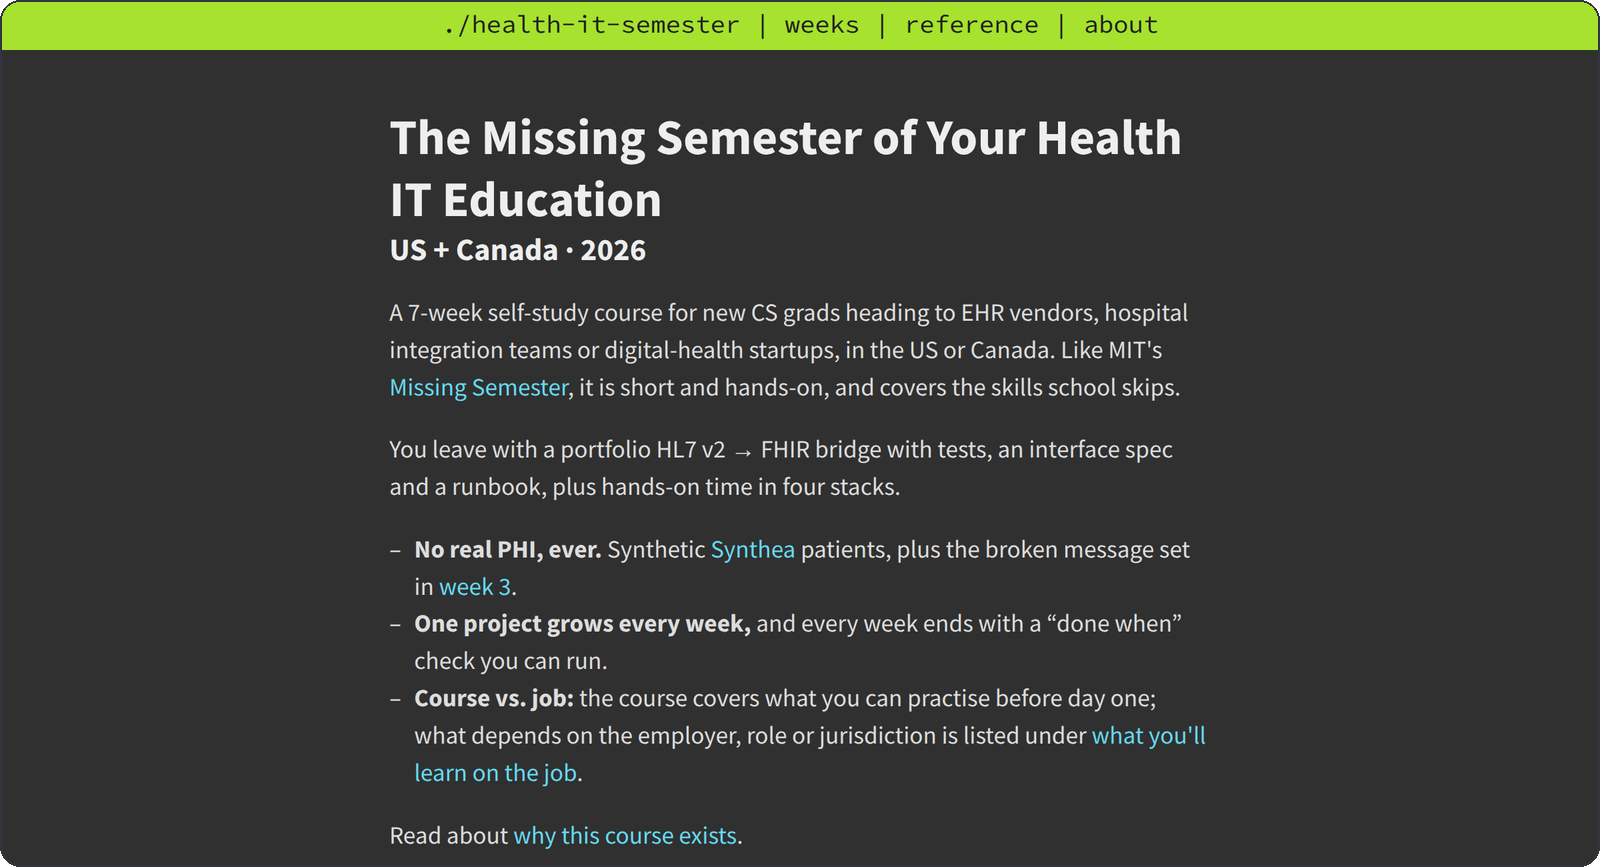
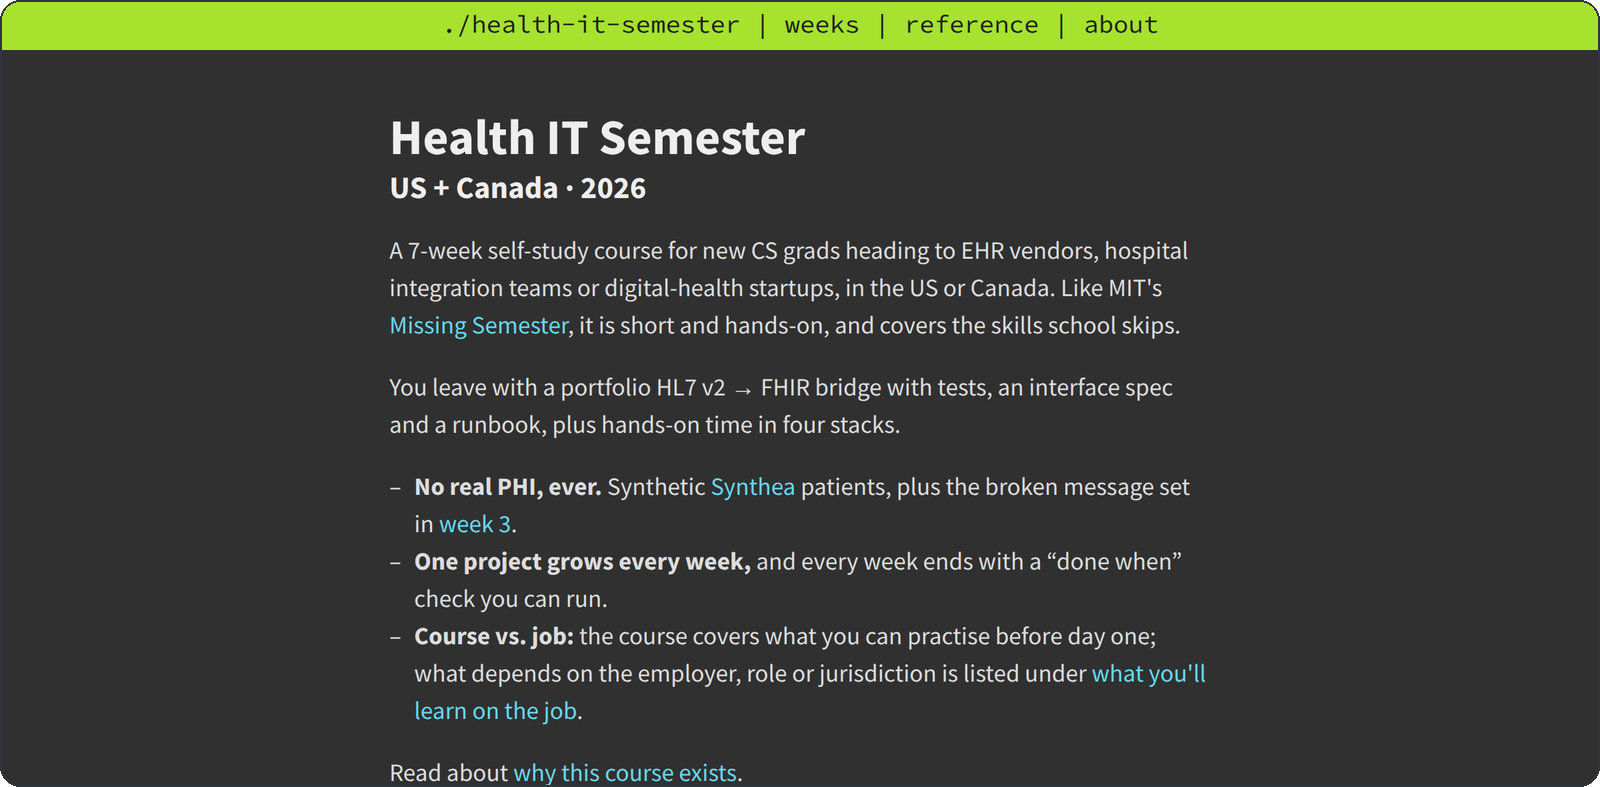
Rename course to Health IT Semester

diff --git a/index.html b/index.html
@@ -7,7 +7,7 @@
   <meta name="viewport" content="width=device-width, initial-scale=1.0">
   <meta name="description" content="A 7-week self-study course for new CS grads entering healthcare IT in the US or Canada.">
 
-  <title>The Missing Semester of Your Health IT Education</title>
+  <title>Health IT Semester</title>
 
   <link rel="stylesheet" href="static/css/main.css">
   <link rel="stylesheet" href="static/css/syntax.css">
@@ -35,7 +35,7 @@
 
 
     <div id="content">
-    <h1 class="title">The Missing Semester of Your Health IT Education</h1>
+    <h1 class="title">Health IT Semester</h1>
 <h2 class="subtitle">US + Canada · 2026</h2>
 
 <p>A 7-week self-study course for new CS grads heading to EHR vendors, hospital

diff --git a/about.html b/about.html
@@ -5,9 +5,9 @@
   <meta charset="utf-8">
 
   <meta name="viewport" content="width=device-width, initial-scale=1.0">
-  <meta name="description" content="Why the Health IT Missing Semester exists, and how employers can use it.">
+  <meta name="description" content="Why the Health IT Semester exists, and how employers can use it.">
 
-  <title>Why this course exists &middot; Health IT Missing Semester</title>
+  <title>Why this course exists &middot; Health IT Semester</title>
 
   <link rel="stylesheet" href="static/css/main.css">
   <link rel="stylesheet" href="static/css/syntax.css">

diff --git a/week-3.html b/week-3.html
@@ -5,9 +5,9 @@
   <meta charset="utf-8">
 
   <meta name="viewport" content="width=device-width, initial-scale=1.0">
-  <meta name="description" content="Week 3 of the Health IT Missing Semester: HL7 v2 + patient identity.">
+  <meta name="description" content="Week 3 of the Health IT Semester: HL7 v2 + patient identity.">
 
-  <title>HL7 v2 + patient identity &middot; Health IT Missing Semester</title>
+  <title>HL7 v2 + patient identity &middot; Health IT Semester</title>
 
   <link rel="stylesheet" href="static/css/main.css">
   <link rel="stylesheet" href="static/css/syntax.css">

diff --git a/overview.html b/overview.html
@@ -5,9 +5,9 @@
   <meta charset="utf-8">
 
   <meta name="viewport" content="width=device-width, initial-scale=1.0">
-  <meta name="description" content="Prework, outcomes and the capstone project of the Health IT Missing Semester.">
+  <meta name="description" content="Prework, outcomes and the capstone project of the Health IT Semester.">
 
-  <title>Course Overview &middot; Health IT Missing Semester</title>
+  <title>Course Overview &middot; Health IT Semester</title>
 
   <link rel="stylesheet" href="static/css/main.css">
   <link rel="stylesheet" href="static/css/syntax.css">

diff --git a/lab-setup.html b/lab-setup.html
@@ -5,9 +5,9 @@
   <meta charset="utf-8">
 
   <meta name="viewport" content="width=device-width, initial-scale=1.0">
-  <meta name="description" content="Lab setup commands and the test record for the Health IT Missing Semester.">
+  <meta name="description" content="Lab setup commands and the test record for the Health IT Semester.">
 
-  <title>Lab setup &middot; Health IT Missing Semester</title>
+  <title>Lab setup &middot; Health IT Semester</title>
 
   <link rel="stylesheet" href="static/css/main.css">
   <link rel="stylesheet" href="static/css/syntax.css">

diff --git a/interview-prep.html b/interview-prep.html
@@ -5,9 +5,9 @@
   <meta charset="utf-8">
 
   <meta name="viewport" content="width=device-width, initial-scale=1.0">
-  <meta name="description" content="Interview questions the Health IT Missing Semester prepares you for.">
+  <meta name="description" content="Interview questions the Health IT Semester prepares you for.">
 
-  <title>Interview prep &middot; Health IT Missing Semester</title>
+  <title>Interview prep &middot; Health IT Semester</title>
 
   <link rel="stylesheet" href="static/css/main.css">
   <link rel="stylesheet" href="static/css/syntax.css">

diff --git a/week-0.html b/week-0.html
@@ -5,9 +5,9 @@
   <meta charset="utf-8">
 
   <meta name="viewport" content="width=device-width, initial-scale=1.0">
-  <meta name="description" content="Week 0 of the Health IT Missing Semester: Stack short runs.">
+  <meta name="description" content="Week 0 of the Health IT Semester: Stack short runs.">
 
-  <title>Stack short runs &middot; Health IT Missing Semester</title>
+  <title>Stack short runs &middot; Health IT Semester</title>
 
   <link rel="stylesheet" href="static/css/main.css">
   <link rel="stylesheet" href="static/css/syntax.css">

diff --git a/week-6.html b/week-6.html
@@ -5,9 +5,9 @@
   <meta charset="utf-8">
 
   <meta name="viewport" content="width=device-width, initial-scale=1.0">
-  <meta name="description" content="Week 6 of the Health IT Missing Semester: Ship + get hired.">
+  <meta name="description" content="Week 6 of the Health IT Semester: Ship + get hired.">
 
-  <title>Ship + get hired &middot; Health IT Missing Semester</title>
+  <title>Ship + get hired &middot; Health IT Semester</title>
 
   <link rel="stylesheet" href="static/css/main.css">
   <link rel="stylesheet" href="static/css/syntax.css">

diff --git a/must-reads.html b/must-reads.html
@@ -5,9 +5,9 @@
   <meta charset="utf-8">
 
   <meta name="viewport" content="width=device-width, initial-scale=1.0">
-  <meta name="description" content="Book chapters to read alongside the Health IT Missing Semester.">
+  <meta name="description" content="Book chapters to read alongside the Health IT Semester.">
 
-  <title>Must reads &middot; Health IT Missing Semester</title>
+  <title>Must reads &middot; Health IT Semester</title>
 
   <link rel="stylesheet" href="static/css/main.css">
   <link rel="stylesheet" href="static/css/syntax.css">

diff --git a/week-1.html b/week-1.html
@@ -5,9 +5,9 @@
   <meta charset="utf-8">
 
   <meta name="viewport" content="width=device-width, initial-scale=1.0">
-  <meta name="description" content="Week 1 of the Health IT Missing Semester: How care works.">
+  <meta name="description" content="Week 1 of the Health IT Semester: How care works.">
 
-  <title>How care works &middot; Health IT Missing Semester</title>
+  <title>How care works &middot; Health IT Semester</title>
 
   <link rel="stylesheet" href="static/css/main.css">
   <link rel="stylesheet" href="static/css/syntax.css">

diff --git a/week-5.html b/week-5.html
@@ -5,9 +5,9 @@
   <meta charset="utf-8">
 
   <meta name="viewport" content="width=device-width, initial-scale=1.0">
-  <meta name="description" content="Week 5 of the Health IT Missing Semester: Privacy + AI.">
+  <meta name="description" content="Week 5 of the Health IT Semester: Privacy + AI.">
 
-  <title>Privacy + AI &middot; Health IT Missing Semester</title>
+  <title>Privacy + AI &middot; Health IT Semester</title>
 
   <link rel="stylesheet" href="static/css/main.css">
   <link rel="stylesheet" href="static/css/syntax.css">

diff --git a/week-2.html b/week-2.html
@@ -5,9 +5,9 @@
   <meta charset="utf-8">
 
   <meta name="viewport" content="width=device-width, initial-scale=1.0">
-  <meta name="description" content="Week 2 of the Health IT Missing Semester: Data + SQL.">
+  <meta name="description" content="Week 2 of the Health IT Semester: Data + SQL.">
 
-  <title>Data + SQL &middot; Health IT Missing Semester</title>
+  <title>Data + SQL &middot; Health IT Semester</title>
 
   <link rel="stylesheet" href="static/css/main.css">
   <link rel="stylesheet" href="static/css/syntax.css">
